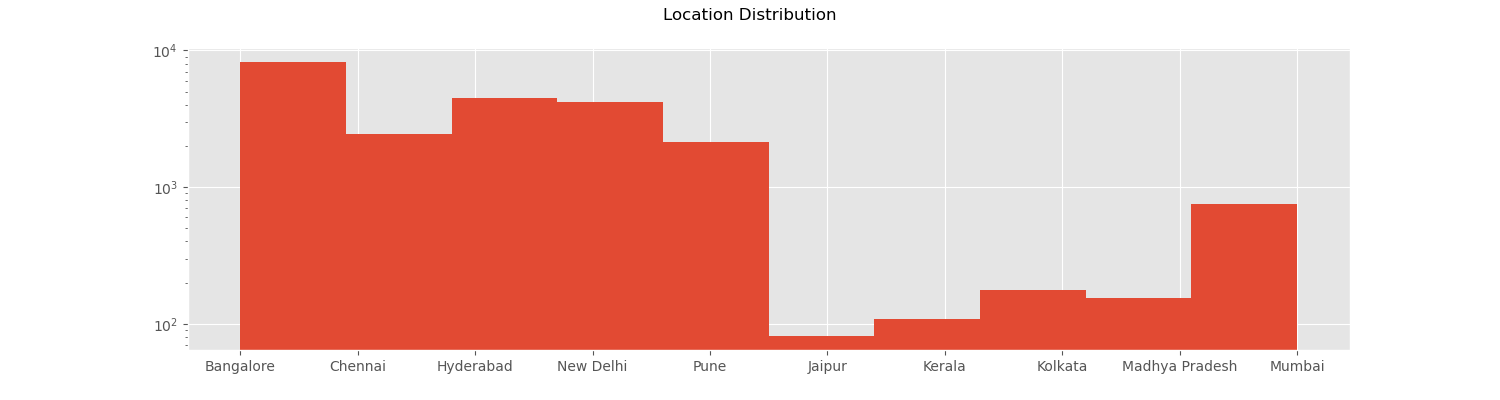
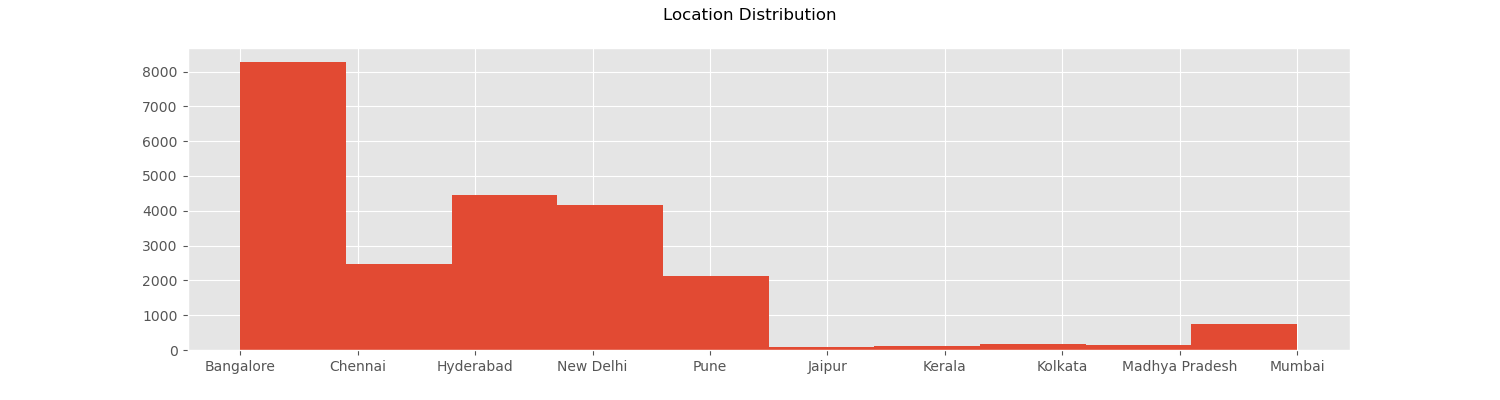
Adding distribution graphics

diff --git a/data_cleansing.py b/data_cleansing.py
@@ -19,31 +19,33 @@ plt1 = plt2 = plt3 = plt4 = plt
 
 # read the data
 df = pd.read_csv('Salary_Dataset.csv')
-
+# print(df.describe())
+# print(df.head())
+print(df.dtypes)
 # evaluate and drop unneeded features
-df = df.drop(columns=(['Salaries Reported', 'Job Title', 'Company Name', ]))
+# df = df.drop(columns=(['Salaries Reported', 'Job Title', 'Company Name', ]))
 
 # shape and data types of the data
-print("Shape", df.shape)
+# print("Shape", df.shape)
 #print(df.dtypes)
-print("Value Counts", df.dtypes.value_counts())
-print(df.describe())
+# print("Value Counts", df.dtypes.value_counts())
+# print(df.describe())
 
 #separate numeric from object columns
 
-num_cols = df.columns[df.dtypes != 'object']
-cat_cols = df.columns[df.dtypes == 'object']
+# num_cols = df.columns[df.dtypes != 'object']
+# cat_cols = df.columns[df.dtypes == 'object']
 
-print("numeric:", num_cols, "non-numeric:", cat_cols)
+#print("numeric:", num_cols, "non-numeric:", cat_cols)
 
 #Find missing values in numeric columns
-print("NULL in Numeric Columns", df[num_cols].isnull().sum())
+#print("NULL in Numeric Columns", df[num_cols].isnull().sum())
 # Find missing values in object columns
-print("NULL in ojbect Columns", df[cat_cols].isnull().sum())
+#print("NULL in ojbect Columns", df[cat_cols].isnull().sum())
 
 
 #Find outliers in salary
-print(df.describe()[['Salary','Rating']])
+#print(df.describe()[['Salary','Rating']])
 
 plt.figure(figsize=(5, 4))
 plt.suptitle('Salary Boxplot - Outliers')
@@ -59,59 +61,78 @@ plt.figure(figsize=(5, 4))
 plt.suptitle('Salary Boxplot - Removed Outlier')
 plt.boxplot(df['Salary'])
 
-plt.figure(figsize=(5, 4))
-plt.suptitle('Rating Boxplot - Outliers')
-plt.boxplot(df['Rating'])
+# Rating outliers
+# plt.figure(figsize=(5, 4))
+# plt.suptitle('Rating Boxplot - Outliers')
+# plt.boxplot(df['Rating'])
 
-#Add US Salary to dataset based on Salary for Rupee
+# Add US Salary to dataset based on Salary for Rupee
 # Conversion rate is .012
 rcr = 0.012
 df = df.assign(USSalary=lambda x: (x['Salary']*rcr))
 
-print(df['USSalary'].describe())
+print("After USSalary Added")
+print(df.describe())
 
 plt.figure(figsize=(5, 4))
 plt.suptitle('US Salary Boxplot - Removed Outlier')
 plt.boxplot(df['USSalary'])
 
 
-# print(df[""])
+print("Post Cleansing", df.shape)
+num_cols = df.columns[df.dtypes != 'object']
+cat_cols = df.columns[df.dtypes == 'object']
 
-# find missing data - yellow is missing. blue is not missing.
-# plt.figure(figsize=(10,4))
-# sns.heatmap(df.isna().transpose(), 
-#             cmap="YlGnBu",
-#             cbar_kws={'label': 'Missing Data'})
-# save heatmap to project - no missing data
-#plt.savefig(".\img\missing_data_heatmap.png", dpi=100)
-# if it's a larger dataset and the visualization takes too long can do this.
-# % of missing.
-# for col in df.columns:
-#     pct_missing = np.mean(df[col].isna())
-#     print('{} - {}%'.format(col, round(pct_missing*100)))
+
+df.describe(include='all')
+
+df.isnull().sum()
+
 
 # Rating distribution
-# plt.figure(figsize=(10,4))
-# plt.hist( df["Rating"], bins=[1, 1.5, 2, 2.5, 3, 3.5, 4, 4.5, 5], log=True)
-# plt.suptitle('Rating Distribution')
-# plt.savefig("./img/rating_distribution.png", dpi=100)
+plt.figure(figsize=(10,4))
+plt.hist( df["Rating"], bins=[1, 2, 3, 4, 5])
+plt.suptitle('Rating Distribution')
+plt.savefig("./img/rating_distribution.png", dpi=100)
 
 #Location distribution
-# plt1.figure(figsize=(15,4))
-# plt1.hist(df["Location"], log=True)
-# plt1.suptitle('Location Distribution')
-# plt1.savefig("./img/location_distribution.png", dpi=100)
+plt2.figure(figsize=(15,4))
+plt2.hist(df["Location"])
+plt2.suptitle('Location Distribution')
+plt2.savefig("./img/location_distribution.png", dpi=100)
 
 
 #print(df["Location"].unique())
 
 # Job Role Distribution
-# plt2.figure(figsize=(10, 5))
-# plt2.hist(df["Job Roles"])
-# plt2.suptitle('Job Role Distribution')
-# plt2.savefig("./img/job_role_distribution.png", dpi=100)
+plt2.figure(figsize=(10, 5))
+plt2.hist(df["Job Roles"])
+plt2.suptitle('Job Role Distribution')
+plt2.savefig("./img/job_role_distribution.png", dpi=100)
 
-# print(df["Job Roles"].unique())
+#print(df["Job Roles"].unique())
+print(df["Employment Status"].unique())
+
+sns.displot(df['USSalary'])
+sns.displot(df['Rating'])
+
+
+# sns.relplot(x='Location', y='USSalary', hue='Location', data=df)
+
+
+# calculate correlation matrix
+corr = df.corr()  # plot the heatmap
+sns.heatmap(corr, xticklabels=corr.columns, yticklabels=corr.columns,
+            annot=True, cmap=sns.diverging_palette(220, 20, as_cmap=True))
+
+# Scatter Plot looking at instance of Job roles in different locations
+# Job roles are not evenly distributed in each locatoin. Several locations only use one job role.
+df.plot(kind='scatter', x='Location', y='Job Roles')
+
+# Scatter Plot looking at instance of Job roles in different locations
+# Job roles are not evenly distributed in each locatoin. Several locations only use one job role.
+df.plot(kind='scatter', x='Location', y='USSalary')
+
 
 
 # plt3.figure(figsize=(15,4))
@@ -138,3 +159,5 @@ plt.boxplot(df['USSalary'])
 
 # for x in LowSalary:
 #     print(LowSalary['Salary'], LowSalary['Location'])
+
+
